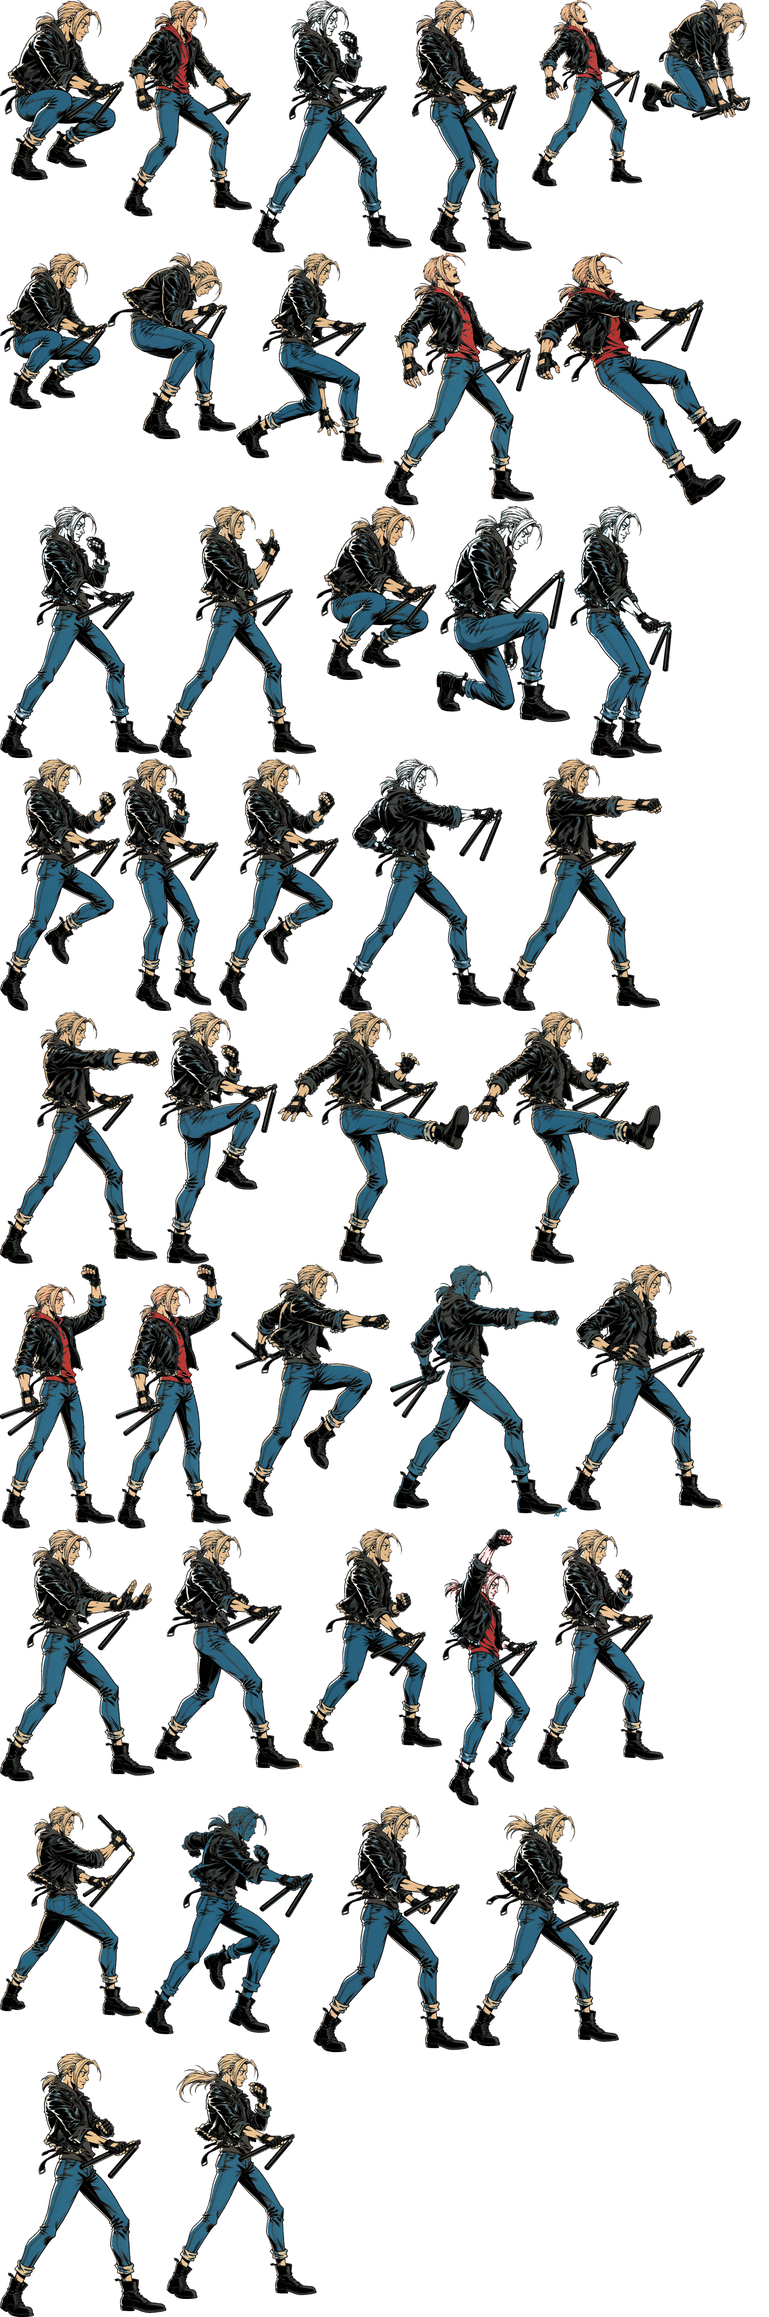
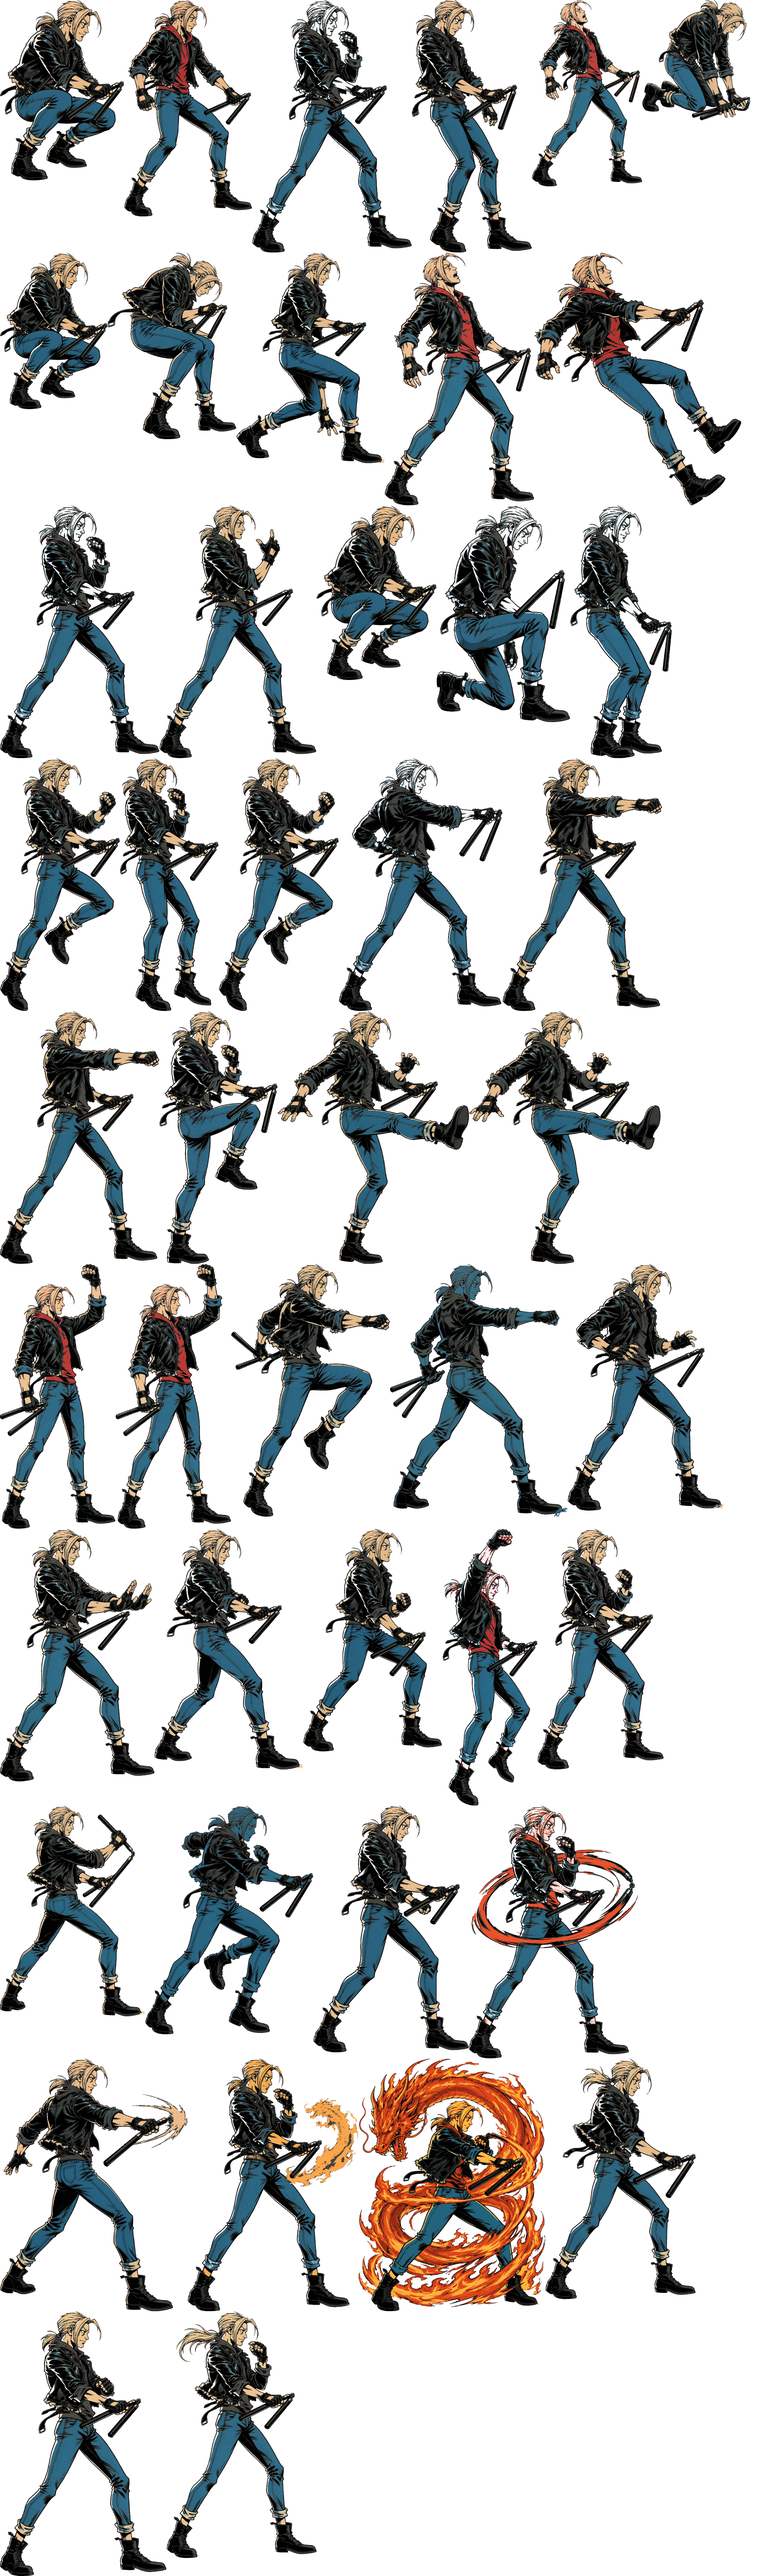
批次 20261027-0817 · [T268] 动作专属化 20/27：Chang + Billy 各 4 招
改了什么：
- gen-poses 加 8 条（Chang：抡球火焰气流/高举下砸火花/抓举发力/全身橙黄火焰包裹；
  Billy：棍转圆盘残影/棍头直刺/棍上火龙/巨大火龙缠身）
- build-sheet 加 changspecial1-3 + changsuper、billyspecial1-3 + billysuper，
  并更新 EXCLUSIVE_OWNER
- poses.ts 加 8 个兜底（key = anim 名，全小写）
- chang.ts / billy.ts 各改 5 处

效果是 20 个角色里最猛的：Chang 超必杀全身被橙黄火焰包裹、铁球拖一圈残影；
Billy 超必杀整条橙红火龙绕着身体转，火焰旋涡非常壮观。

为什么这两个这么出效果：都是重兵器/长兵器，铁球和三节棍本身就是很好的火焰载体，
AI 有明确的东西可以"点着"。

怎么验证的：打包两个角色都检查了错误（grep -qi error），失败=0；art:check 通过；
npm run check 995 条全绿

diff --git a/src/data/chars/chang.ts b/src/data/chars/chang.ts
@@ -27,7 +27,7 @@ export const CHANG: CharDef = {
 
     // ---------------------------------------------------------------- 必杀技
     // 鉄球大回転：抡球连打（四段）
-    '236A': mv('236A', '鉄球大回転', 'punchHeavy', 52, 'special', [
+    '236A': mv('236A', '鉄球大回転', 'changspecial1', 52, 'special', [
       hit('h1', { box: { x: 14, y: -70, w: 40, h: 34 }, frames: [10, 13], damage: 34, hitStun: 14, hitstop: 6, meterGain: 5 }),
       hit('h2', { box: { x: 14, y: -70, w: 40, h: 34 }, frames: [17, 20], damage: 32, hitStun: 14, hitstop: 6, meterGain: 5 }),
       hit('h3', { box: { x: 14, y: -72, w: 42, h: 36 }, frames: [24, 27], damage: 32, hitStun: 14, hitstop: 6, meterGain: 5 }),
@@ -43,7 +43,7 @@ export const CHANG: CharDef = {
     ], { input: { motion: '236', buttons: ['A'] } }),
 
     // 鉄球大圧殺：跳起砸球（中段）
-    '214A': mv('214A', '鉄球大圧殺', 'punchHeavy', 44, 'special', [
+    '214A': mv('214A', '鉄球大圧殺', 'changspecial2', 44, 'special', [
       hit('h1', {
         box: { x: 10, y: -74, w: 44, h: 40 },
         frames: [15, 19],
@@ -59,7 +59,7 @@ export const CHANG: CharDef = {
     ], { input: { motion: '214', buttons: ['A'] } }),
 
     // 大破壊投げ：贴身抓
-    '63214A': mv('63214A', '大破壊投げ', 'throwStart', 56, 'throw', [
+    '63214A': mv('63214A', '大破壊投げ', 'changspecial3', 56, 'throw', [
       hit('h1', {
         box: { x: 4, y: -70, w: 38, h: 54 },
         frames: [8, 12],
@@ -74,7 +74,7 @@ export const CHANG: CharDef = {
     ], { input: { motion: '63214', buttons: ['A'] }, blockable: false }),
 
     // ---------------------------------------------------------------- 超必杀
-    '236236A': mv('236236A', '鉄球大回転・乱', 'special', 66, 'super', [
+    '236236A': mv('236236A', '鉄球大回転・乱', 'changsuper', 66, 'super', [
       hit('h1', { box: { x: 12, y: -72, w: 42, h: 36 }, frames: [8, 11], damage: 32, hitStun: 15, hitstop: 6, meterGain: 0 }),
       hit('h2', { box: { x: 12, y: -72, w: 42, h: 36 }, frames: [16, 19], damage: 30, hitStun: 15, hitstop: 6, meterGain: 0 }),
       hit('h3', { box: { x: 12, y: -74, w: 44, h: 38 }, frames: [24, 27], damage: 30, hitStun: 15, hitstop: 6, meterGain: 0 }),
@@ -89,7 +89,7 @@ export const CHANG: CharDef = {
       }),
     ], { input: { motion: '236236', buttons: ['A'] }, meterCost: 50 }),
 
-    '236236AC': mv('236236AC', '鉄球大暴走', 'special', 82, 'super', [
+    '236236AC': mv('236236AC', '鉄球大暴走', 'changsuper', 82, 'super', [
       hit('h1', { box: { x: 10, y: -76, w: 44, h: 40 }, frames: [10, 14], damage: 36, hitStun: 16, hitstop: 7, meterGain: 0 }),
       hit('h2', { box: { x: 10, y: -76, w: 44, h: 40 }, frames: [20, 24], damage: 34, hitStun: 16, hitstop: 7, meterGain: 0 }),
       hit('h3', { box: { x: 10, y: -78, w: 46, h: 42 }, frames: [30, 34], damage: 34, hitStun: 16, hitstop: 7, meterGain: 0 }),

diff --git a/src/data/chars/billy.ts b/src/data/chars/billy.ts
@@ -23,7 +23,7 @@ export const BILLY: CharDef = {
 
     // ---------------------------------------------------------------- 必杀技
     // 旋風棍：抡棍连打
-    '236A': mv('236A', '旋風棍', 'punchHeavy', 48, 'special', [
+    '236A': mv('236A', '旋風棍', 'billyspecial1', 48, 'special', [
       hit('h1', { box: { x: 16, y: -70, w: 44, h: 22 }, frames: [10, 13], damage: 30, hitStun: 14, hitstop: 6, meterGain: 5 }),
       hit('h2', { box: { x: 16, y: -70, w: 44, h: 22 }, frames: [17, 20], damage: 28, hitStun: 14, hitstop: 6, meterGain: 5 }),
       hit('h3', {
@@ -38,7 +38,7 @@ export const BILLY: CharDef = {
     ], { input: { motion: '236', buttons: ['A'] } }),
 
     // 三節棍中段打ち：对空长判定
-    '623A': mv('623A', '三節棍中段打ち', 'punchHeavy', 42, 'special', [
+    '623A': mv('623A', '三節棍中段打ち', 'billyspecial2', 42, 'special', [
       hit('h1', {
         box: { x: 8, y: -92, w: 34, h: 66 },
         frames: [5, 12],
@@ -52,7 +52,7 @@ export const BILLY: CharDef = {
     ], { input: { motion: '623', buttons: ['A'] }, invuln: [{ frames: [1, 5], kind: 'full' }] }),
 
     // 火龍棍：火焰突刺（飞行道具）
-    '214A': mv('214A', '火龍棍', 'special', 40, 'special', [], {
+    '214A': mv('214A', '火龍棍', 'billyspecial3', 40, 'special', [], {
       input: { motion: '214', buttons: ['A'] },
       projectile: {
         anim: '火龍棍',
@@ -74,7 +74,7 @@ export const BILLY: CharDef = {
     }),
 
     // ---------------------------------------------------------------- 超必杀
-    '236236A': mv('236236A', '超火炎旋風棍', 'special', 68, 'super', [
+    '236236A': mv('236236A', '超火炎旋風棍', 'billysuper', 68, 'super', [
       hit('h1', { box: { x: 14, y: -76, w: 46, h: 30 }, frames: [10, 14], damage: 34, hitStun: 16, hitstop: 7, meterGain: 0 }),
       hit('h2', { box: { x: 14, y: -78, w: 48, h: 34 }, frames: [18, 22], damage: 32, hitStun: 16, hitstop: 7, meterGain: 0 }),
       hit('h3', { box: { x: 14, y: -80, w: 50, h: 40 }, frames: [26, 30], damage: 32, hitStun: 16, hitstop: 7, meterGain: 0 }),
@@ -89,7 +89,7 @@ export const BILLY: CharDef = {
       }),
     ], { input: { motion: '236236', buttons: ['A'] }, meterCost: 50 }),
 
-    '236236AC': mv('236236AC', '超火炎旋風棍 MAX', 'special', 80, 'super', [
+    '236236AC': mv('236236AC', '超火炎旋風棍 MAX', 'billysuper', 80, 'super', [
       hit('h1', { box: { x: 12, y: -78, w: 48, h: 32 }, frames: [8, 11], damage: 30, hitStun: 16, hitstop: 6, meterGain: 0 }),
       hit('h2', { box: { x: 12, y: -80, w: 50, h: 36 }, frames: [15, 18], damage: 28, hitStun: 16, hitstop: 6, meterGain: 0 }),
       hit('h3', { box: { x: 12, y: -82, w: 52, h: 40 }, frames: [22, 25], damage: 28, hitStun: 16, hitstop: 6, meterGain: 0 }),

diff --git a/src/render/poses.ts b/src/render/poses.ts
@@ -637,6 +637,15 @@ export const POSE_LIBRARY: Record<string, Pose> = {
   choispecial2: { frameDuration: 1, loop: false, exclusive: 'choi', frames: [f({ head: p(1, -70), neck: p(1, -60), hip: p(0, -38), armFront: [p(14, -54), p(16, -72)], armBack: [p(-10, -50), p(-14, -42)] })] },
   choispecial3: { frameDuration: 1, loop: false, exclusive: 'choi', frames: [f({ head: p(6, -52), neck: p(6, -44), hip: p(1, -26), armFront: [p(16, -38), p(28, -32)], armBack: [p(-10, -38), p(-18, -32)] })] },
   choisuper: { frameDuration: 1, loop: false, exclusive: 'choi', frames: [f({ head: p(2, -62), neck: p(2, -52), hip: p(0, -32), armFront: [p(18, -52), p(30, -46)], armBack: [p(-16, -52), p(-28, -46)] })] },
+  // Chang / Billy 专属必杀的兜底（key 与 anim 名一致）
+  changspecial1: { frameDuration: 1, loop: false, exclusive: 'chang', frames: [f({ head: p(6, -58), neck: p(6, -50), hip: p(2, -30), armFront: [p(22, -52), p(34, -56)], armBack: [p(-14, -50), p(-24, -54)] })] },
+  changspecial2: { frameDuration: 1, loop: false, exclusive: 'chang', frames: [f({ head: p(4, -60), neck: p(4, -52), hip: p(1, -30), armFront: [p(10, -74), p(12, -90)], armBack: [p(-8, -74), p(-10, -90)] })] },
+  changspecial3: { frameDuration: 1, loop: false, exclusive: 'chang', frames: [f({ head: p(-4, -56), neck: p(-4, -48), hip: p(-2, -28), armFront: [p(12, -60), p(16, -76)], armBack: [p(-10, -54), p(-14, -70)] })] },
+  changsuper: { frameDuration: 1, loop: false, exclusive: 'chang', frames: [f({ head: p(5, -58), neck: p(5, -50), hip: p(1, -30), armFront: [p(24, -54), p(36, -58)], armBack: [p(-18, -52), p(-30, -56)] })] },
+  billyspecial1: { frameDuration: 1, loop: false, exclusive: 'billy', frames: [f({ head: p(3, -70), neck: p(3, -60), hip: p(0, -38), armFront: [p(18, -58), p(32, -54)], armBack: [p(-10, -56), p(-20, -52)] })] },
+  billyspecial2: { frameDuration: 1, loop: false, exclusive: 'billy', frames: [f({ head: p(5, -68), neck: p(5, -58), hip: p(1, -37), armFront: [p(20, -56), p(34, -56)], armBack: [p(-8, -54), p(-16, -50)] })] },
+  billyspecial3: { frameDuration: 1, loop: false, exclusive: 'billy', frames: [f({ head: p(4, -68), neck: p(4, -58), hip: p(0, -37), armFront: [p(18, -56), p(30, -52)], armBack: [p(-12, -54), p(-22, -50)] })] },
+  billysuper: { frameDuration: 1, loop: false, exclusive: 'billy', frames: [f({ head: p(3, -70), neck: p(2, -60), hip: p(0, -38), armFront: [p(20, -58), p(34, -56)], armBack: [p(-16, -58), p(-30, -56)] })] },
   /** 升龙系：整个人向上冲，手臂上举 */
   specialUppercut: {
     frameDuration: 1,

diff --git a/docs/MOVE-PER-CHAR.md b/docs/MOVE-PER-CHAR.md
@@ -79,8 +79,8 @@ mv('236A', '百拾四式・荒咬', 'punchLight', 26, 'special', [...])
 | 15 | 鎮元斎 chin | 回転的空突拳 / 柳燐蓬萊 / 酔歩 / 大酔直全方位 | **done** |
 | 16 | キム kim | 半月斬 / 飛燕斬 / 空連脚 / 鳳凰脚 | **done** |
 | 17 | チョイ choi | 旋風斬 / 飛翔空裂斬 / 疾風斬 / 真！超絶竜巻斬 | **done** |
-| 18 | チン chang | 鉄球大回転 / 鉄球大暴走 / 鉄球大圧殺 / 鉄球大粉砕 | - |
-| 19 | ビリー billy | 雀落とし / 三節棍中段打ち / 旋風棍 / 超火炎旋風棍 | - |
+| 18 | チン chang | 鉄球大回転 / 鉄球大圧殺 / 大破壊投げ / 鉄球大暴走 | **done** |
+| 19 | ビリー billy | 旋風棍 / 三節棍中段打ち / 火龍棍 / 超火炎旋風棍 | **done** |
 | 20 | 影二 eiji | 霞斬り / 影すくい / 骸縫い / 斬鉄 | - |
 | 21 | 矢吹真吾 shingo | 外式・駈け / 百拾四式・荒咬み / 外式・轟斧 / 真吾謹製オレ様必殺 | - |
 | 22 | 社 yashiro | ミリオンラッシュ / ダークエレジー / ディザスターパンチ / ファイナルインパクト | - |
@@ -90,7 +90,7 @@ mv('236A', '百拾四式・荒咬', 'punchLight', 26, 'special', [...])
 | 26 | 暴走庵 orochi_iori | 百八式・闇払い / 百式・鬼焼き / 屑風 / 禁千弐百拾八式・八稚女 | - |
 | 27 | 覚醒レオナ orochi_leona | グランドセイバー / ムーンストライカー / Xキャリバー / リボルブブラスター | - |
 
-**完成度：18 / 27**
+**完成度：20 / 27**
 
 ## 六、已完成记录
 
@@ -334,6 +334,30 @@ benispecial1: {
 | 飛翔空裂斬（623A） | `choispecial2` | 跃起抓、**三道紫色光刃** |
 | 疾風斬（214A） | `choispecial3` | 贴地低冲、紫色残影 |
 | 真！超絶竜巻斬（超必杀） | `choisuper` | **全身被紫色龙卷包裹** |
+
+### 19. Chang（done）
+
+极胖、铁球（重兵器）、橙黄冲击：
+
+| 招式 | 专属动画 | 出图效果 |
+|---|---|---|
+| 鉄球大回転（236A） | `changspecial1` | 抡起铁球旋转、**球周围卷起橙黄气流** |
+| 鉄球大圧殺（214A） | `changspecial2` | 高举下砸、球下方炸开冲击波 |
+| 大破壊投げ（63214A） | `changspecial3` | 双手抓举、身体后仰发力 |
+| 鉄球大暴走（超必杀） | `changsuper` | **全身被橙黄火焰包裹、球拖出一圈残影** |
+
+### 20. Billy（done）
+
+瘦高、三节棍（长兵器）、橙红火焰：
+
+| 招式 | 专属动画 | 出图效果 |
+|---|---|---|
+| 旋風棍（236A） | `billyspecial1` | 三节棍在身前转成圆盘、拖橙红残影 |
+| 三節棍中段打ち（623A） | `billyspecial2` | 棍头直刺、带气流 |
+| 火龍棍（214A） | `billyspecial3` | **棍上燃起橙红火龙** |
+| 超火炎旋風棍（超必杀） | `billysuper` | **巨大火龙缠绕全身、火焰旋涡** |
+
+> 这一组的火焰是 20 个角色里最猛的，尤其 Billy 最后一张——整条龙形火焰绕着人转。
 
 ## 七、执行约定
 

diff --git a/.continue/doing/59bce7.md b/.continue/doing/59bce7.md
@@ -1,0 +1,14 @@
+# 队列 · 会话 59bce766a368447cf9cf15c7e36322c83
+
+> 状态：执行中
+> 创建：2026-10-27
+> 批次：20261027-0817
+
+> 本批目标：动作专属化第 19、20 个角色（Chang、Billy）。
+
+- [x] [T268] Chang + Billy 各 4 个必杀专属动作（20/27）→ 出图 + 数据 + 打包验证
+  - 做了什么：①`gen-poses.mjs` 加 8 条（Chang：抡球火焰气流/高举下砸火花/抓举发力/全身橙黄火焰包裹；Billy：棍转圆盘残影/棍头直刺/棍上火龙/巨大火龙缠身）；②`build-sheet.mjs` 加 `changspecial1-3`+`changsuper`、`billyspecial1-3`+`billysuper`，并更新 `EXCLUSIVE_OWNER`；③`poses.ts` 加 8 个兜底（key = anim 名，全小写）；④`chang.ts`/`billy.ts` 各改 5 处
+  - **效果是 20 个角色里最猛的**：Chang 超必杀全身被橙黄火焰包裹、铁球拖一圈残影；Billy 超必杀**整条橙红火龙绕着身体转**，火焰旋涡非常壮观
+  - 为什么这两个这么出效果：都是**重兵器/长兵器**，铁球和三节棍本身就是很好的火焰载体，AI 有明确的东西可以"点着"
+  - 验证：打包两个角色都检查了错误（`grep -qi error`），失败=0；`art:check` 通过；`npm run check` **995 条全绿**
+  - 批次：20261027-0817

diff --git a/.continue/TASKS.md b/.continue/TASKS.md
@@ -286,3 +286,4 @@
 - [x] T265 角色动作专属化 14/27：Ralf（橙红冲击）+ Clark（纯投技）各 4 招
 - [x] T266 角色动作专属化 16/27：椎拳崇（青绿气+巨龙）+ 鎮元斎（醉拳酒气）各 4 招
 - [x] T267 角色动作专属化 18/27：Kim（青白腿法）+ Choi（紫色龙卷）各 4 招
+- [x] T268 角色动作专属化 20/27：Chang（铁球橙焰）+ Billy（三节棍火龙）各 4 招
